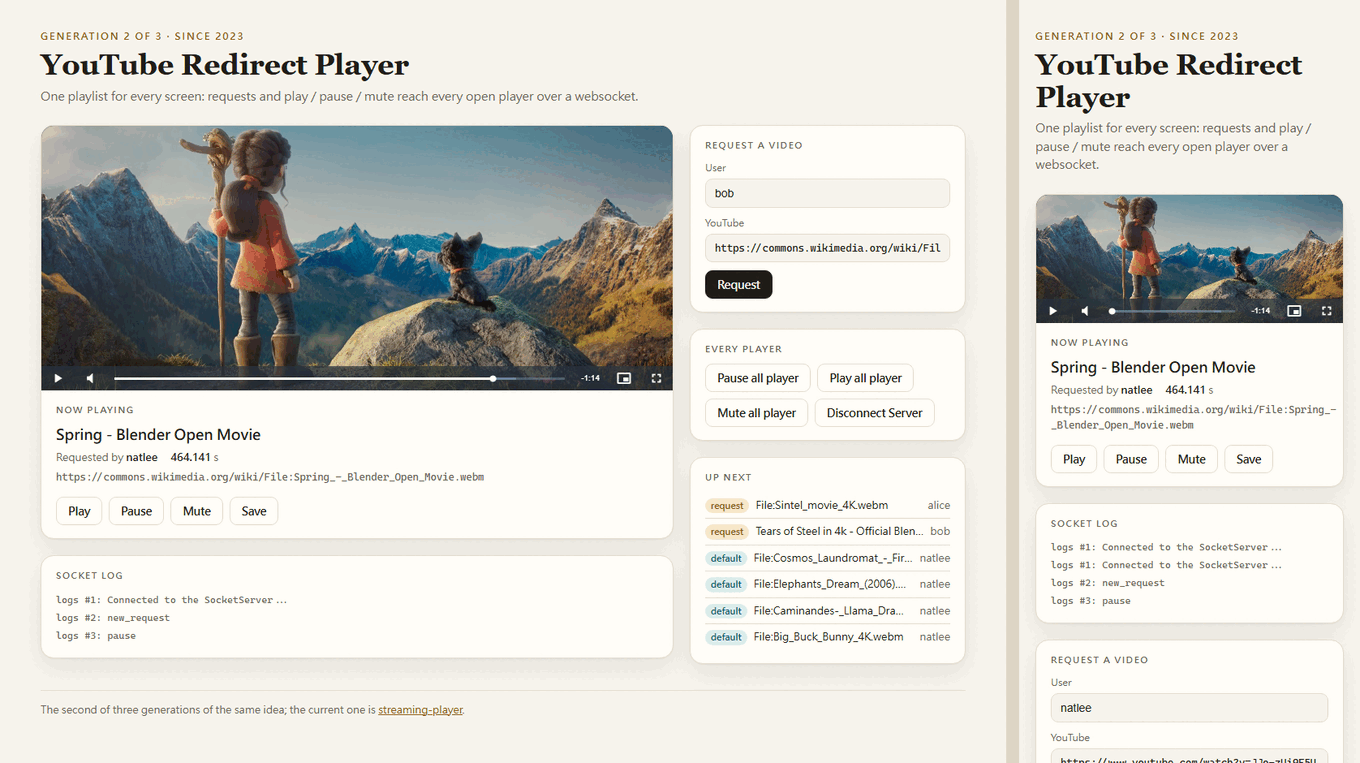
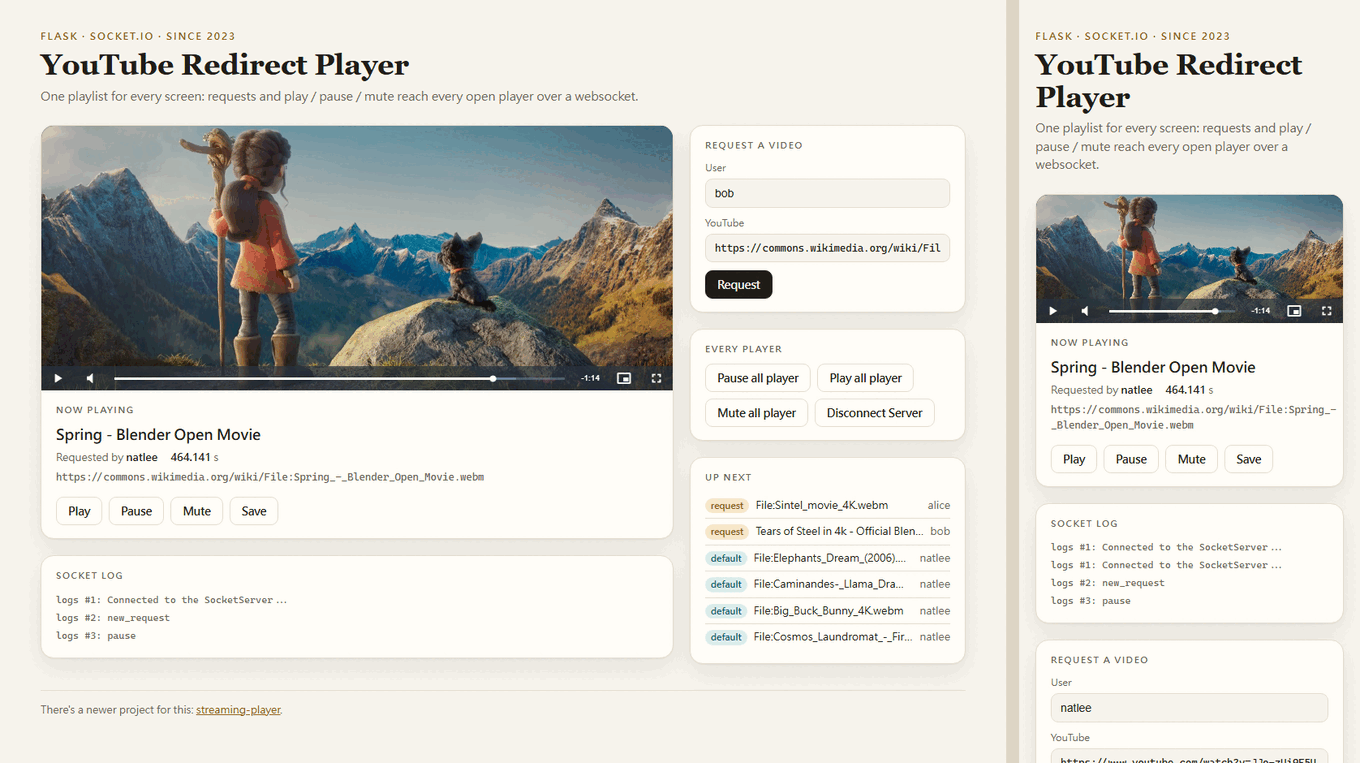
docs: point to the newer project instead of drawing a family tree
The README called this repo "the second of three generations" and had a
whole family-tree section (diagram, comparison table, "you are looking
at Gen 2"); "What it solved" opened with "Gen 1 could play...", and the
credits and license line mentioned Gen 1 too. All of that is gone,
along with the "family" badge. A one-line quote under the badges now
says there's a newer project for this and links streaming-player.

What the app does, the architecture diagram, the playlists, the API
table, settings, how to run it, the 2026 status notes and the
screenshots all stay. The two-window screenshot is retaken so the
page's new top line and footer match, and the cover's alt text
describes the new cover.

diff --git a/README.md b/README.md
@@ -1,16 +1,17 @@
 <p align="center">
   <picture>
     <source media="(prefers-color-scheme: dark)" srcset="https://raw.githubusercontent.com/NatLee/youtube-redirect-player/main/docs/images/hero-dark.png">
-    <img src="https://raw.githubusercontent.com/NatLee/youtube-redirect-player/main/docs/images/hero-light.png" width="960" alt="YouTube Redirect Player, Gen 2 of the streaming-player family. Every open player talks to Flask and Socket.IO, which relays requests and play, pause and mute to everyone, uses yt-dlp to find each direct link and keeps three SQLite playlists: request (plays first), default (shuffled) and history (last 200); the start command is python main.py. A timeline at the bottom runs from youtube-video-redirector (2021) to youtube-redirect-player (2023, this repo) to streaming-player (current).">
+    <img src="https://raw.githubusercontent.com/NatLee/youtube-redirect-player/main/docs/images/hero-light.png" width="960" alt="YouTube Redirect Player, built with Flask, Socket.IO, SQLite and yt-dlp. Every open player talks to Flask and Socket.IO, which relays requests and play, pause and mute to everyone, uses yt-dlp to find each direct link and keeps three SQLite playlists: request (plays first), default (shuffled) and history (last 200). A strip at the bottom shows the two Docker commands that start it.">
   </picture>
 </p>
 
 <p align="center">
   <a href="https://github.com/NatLee/youtube-redirect-player/actions/workflows/ci.yml"><img src="https://github.com/NatLee/youtube-redirect-player/actions/workflows/ci.yml/badge.svg" alt="CI"></a>
-  <a href="https://github.com/NatLee/streaming-player"><img src="https://img.shields.io/badge/family-streaming--player-0f6b62" alt="Family: streaming-player"></a>
   <img src="https://img.shields.io/badge/python-3.12-3776ab" alt="Python 3.12">
   <a href="LICENSE"><img src="https://img.shields.io/github/license/NatLee/youtube-redirect-player" alt="License: MIT"></a>
 </p>
+
+> There's a newer project for this: [streaming-player](https://github.com/NatLee/streaming-player).
 
 YouTube Redirect Player is a small Flask app that turns any number of browser tabs into one player.
 You request a video by its YouTube link, [yt-dlp](https://github.com/yt-dlp/yt-dlp) finds the
@@ -18,37 +19,10 @@ video's direct file link, and the page plays that file. The playlist lives in SQ
 [Socket.IO](https://socket.io/) (a websocket library) carries every request and every play, pause
 and mute to all open players. Open it on a laptop and a TV, and both follow along.
 
-It's the second of three generations of the same idea; the current one is
-[streaming-player](https://github.com/NatLee/streaming-player).
-
-## The family tree
-
-Three repos, one idea that kept growing. Each generation added something and let something go.
-
-```mermaid
-flowchart TB
-    G1["Gen 1 · 2021<br/><b>youtube-video-redirector</b><br/>Flask + yt-dlp"]
-    G2["Gen 2 · 2023<br/><b>youtube-redirect-player</b><br/>Flask + Socket.IO + SQLite"]
-    G3["Gen 3 · current<br/><b>streaming-player</b><br/>Django + Channels + Redis"]
-    G1 -- "+ three playlists<br/>+ every screen in sync<br/>− the ?v= page" --> G2
-    G2 -- "+ chat commands<br/>+ login, admin panel<br/>− pause all screens" --> G3
-    style G2 fill:#f2e6cb,stroke:#8a5f12,stroke-width:2px,color:#1f1c17
-```
-
-| | Gen 1 | Gen 2 | Gen 3 |
-|---|---|---|---|
-| In one line | One video per URL | One shared playlist on every open screen | A stream player your chat controls |
-| Added | `/?v=<id>` finds the direct link and plays it | Request, default and history playlists; play, pause and mute on every screen at once | Nightbot chat commands, login, admin panel, a queue with favorite and block marks, Swagger |
-| Let go | Nothing yet, it was the first | The one-video `?v=` page and the visible direct link | Pause and mute for every screen at once |
-
-You are looking at Gen 2. Gen 1 is
-[youtube-video-redirector](https://github.com/NatLee/youtube-video-redirector); Gen 3 is
-[streaming-player](https://github.com/NatLee/streaming-player).
-
 ## What it solved
 
-Gen 1 could play exactly one video: the one in the address bar. This generation answers the next
-question, "what plays after that, and on which screen?" It keeps a queue, lets people put videos in
+Playing one video from the address bar is easy. This app answers the next question: "what plays
+after that, and on which screen?" It keeps a queue, lets people put videos in
 it by name, and fills the gaps with a shuffled list of saved favourites. Because the queue and the
 controls travel over a websocket, you can play anywhere: every open page hears about a new request,
 and one button pauses them all.
@@ -203,11 +177,10 @@ rebuild.
 
 ## Credits
 
-- Built on [youtube-video-redirector](https://github.com/NatLee/youtube-video-redirector), Gen 1.
 - [yt-dlp](https://github.com/yt-dlp/yt-dlp) finds the links, [Video.js](https://videojs.com/) plays
   them, and [Flask-SocketIO](https://github.com/miguelgrinberg/Flask-SocketIO) keeps the screens in
   step.
 
 ## License
 
-[MIT](LICENSE), same as Gen 1.
+[MIT](LICENSE)
